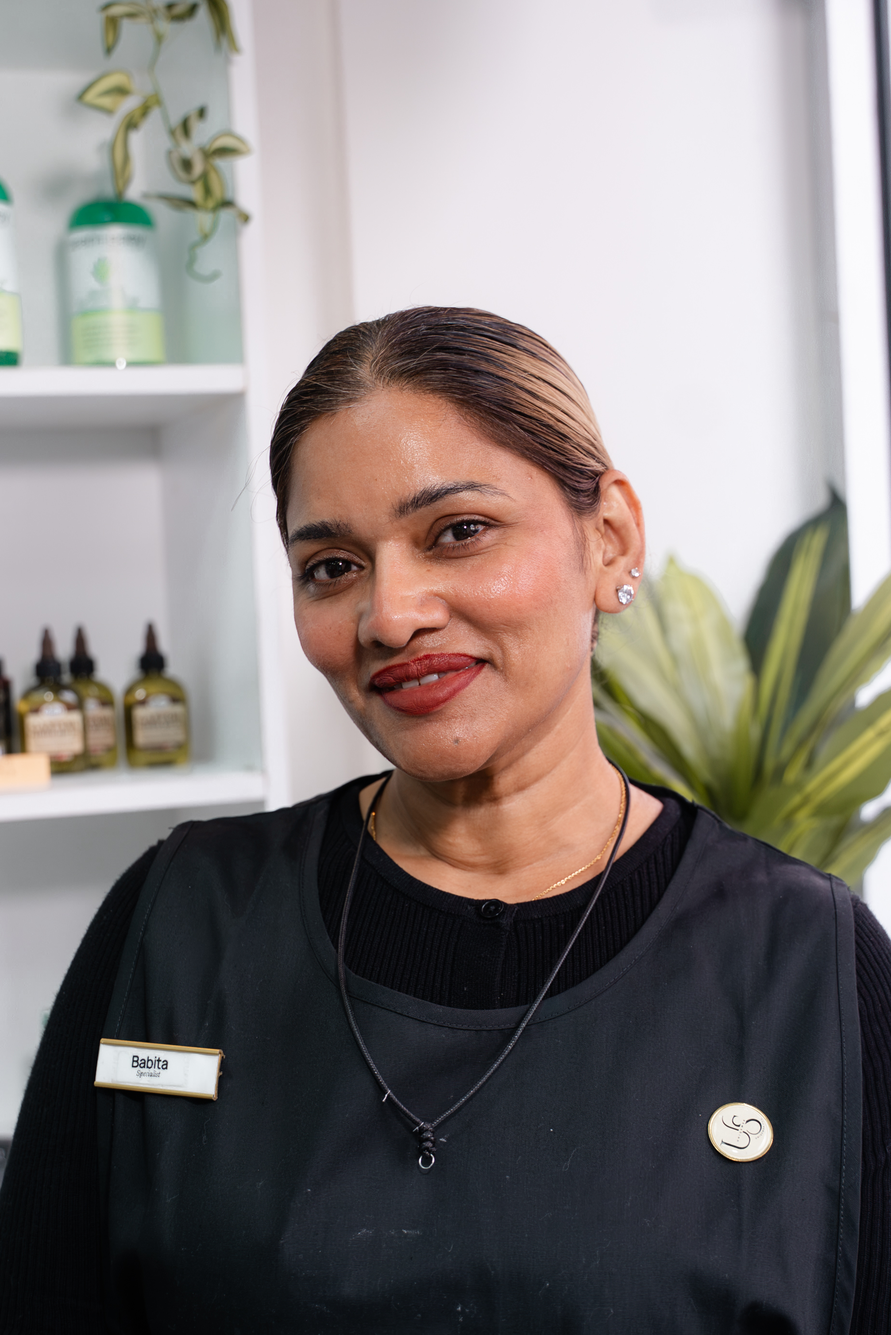
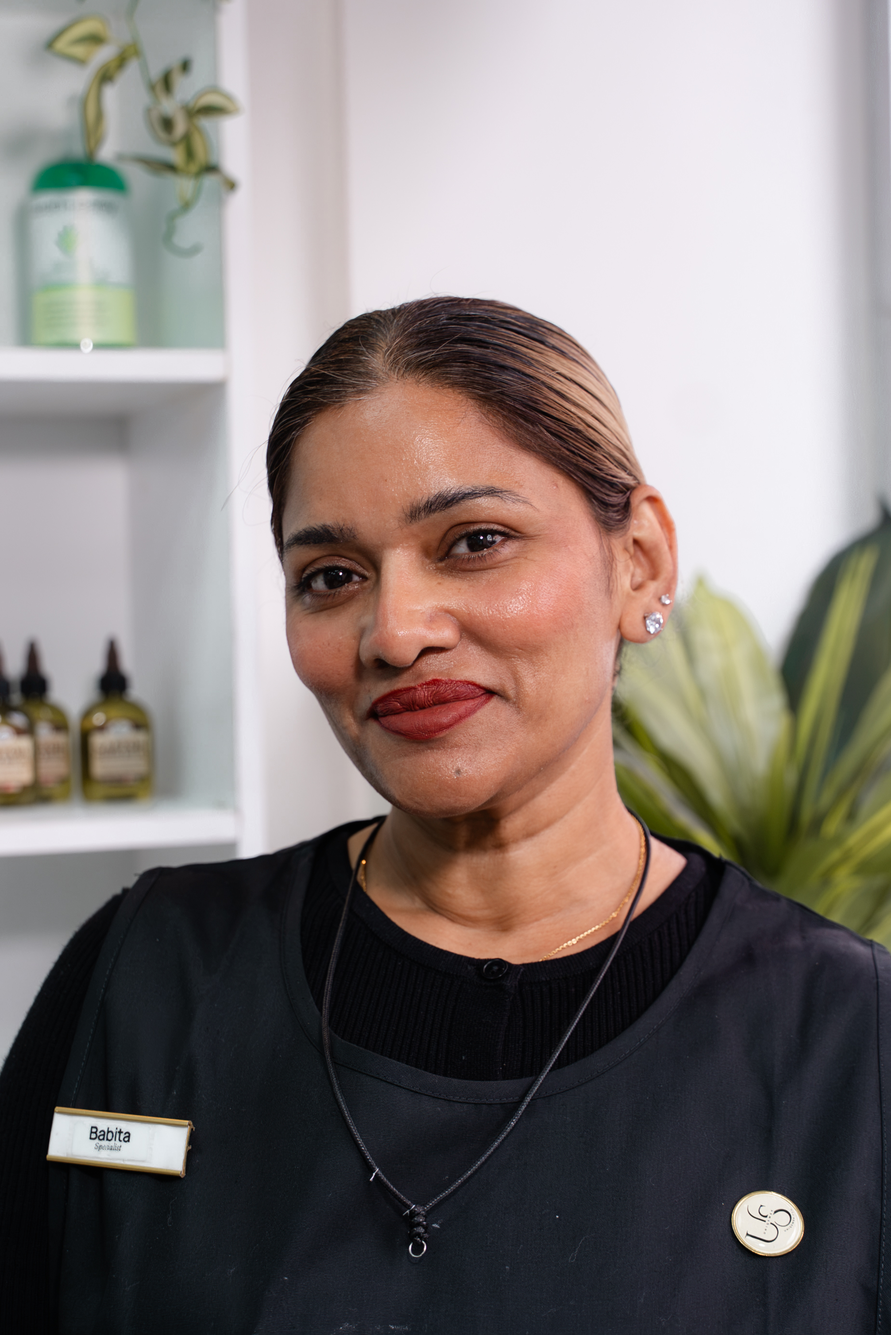
feat: add photoshoot photos — team headshots, gallery, interiors
- Gita headshot now live (was showing initials)
- Updated Babita, Mala, Swek headshots with new professional photos
- Gallery: replaced removed threading slots with 4 new female threading shots and 2 new facial photos (12 images total)
- Ridgewood page: added 3 interior photos
- Manhattan page: added 3rd interior photo
- Added product, gift card, team group, and storefront photos to assets

diff --git a/components/gallery-section.tsx b/components/gallery-section.tsx
@@ -5,14 +5,18 @@ import { useState } from "react"
 import { Dialog, DialogContent } from "@/components/ui/dialog"
 
 const galleryImages = [
-  { src: "/images/DSC04159.jpg", alt: "Eyebrow waxing and tinting service at UniqSwek", category: "Brows" },
+  { src: "/images/threading-1.jpg", alt: "Eyebrow threading close-up — precision thread technique at UniqSwek", category: "Brows" },
+  { src: "/images/threading-2.jpg", alt: "Eyebrow threading service — expert hands shaping brows", category: "Brows" },
+  { src: "/images/threading-3.jpg", alt: "Eyebrow threading in progress at UniqSwek Beauty Studios", category: "Brows" },
+  { src: "/images/brows-result.jpg", alt: "Perfectly shaped eyebrows — threading result at UniqSwek", category: "Brows" },
   { src: "/images/DSC04099.jpg", alt: "Lash extension application by licensed specialist", category: "Lashes" },
-  { src: "/images/facial-1.jpg", alt: "Facial treatment — clay mask application at UniqSwek", category: "Facials" },
   { src: "/images/DSC04132.jpg", alt: "Classic lash extensions — natural and wispy", category: "Lashes" },
-  { src: "/images/facial-2.jpg", alt: "Steam facial treatment at UniqSwek Beauty Studios", category: "Facials" },
-  { src: "/images/facial-3.jpg", alt: "LED light therapy facial at UniqSwek Beauty Studios", category: "Facials" },
   { src: "/images/DSC04142.jpg", alt: "Lash extensions result — beautiful full lashes", category: "Lashes" },
   { src: "/images/DSC04141.jpg", alt: "Lash extensions — before and after comparison", category: "Lashes" },
+  { src: "/images/facial-4.jpg", alt: "Professional facial treatment with steam — Babita at UniqSwek", category: "Facials" },
+  { src: "/images/facial-5.jpg", alt: "LED light therapy facial at UniqSwek Beauty Studios", category: "Facials" },
+  { src: "/images/facial-1.jpg", alt: "Facial treatment — clay mask application at UniqSwek", category: "Facials" },
+  { src: "/images/facial-2.jpg", alt: "Steam facial treatment at UniqSwek Beauty Studios", category: "Facials" },
 ]
 
 const CATEGORIES = ["All", "Brows", "Lashes", "Facials"]

diff --git a/app/ridgewood/page.tsx b/app/ridgewood/page.tsx
@@ -26,7 +26,7 @@ const ridgewoodTeam = [
   { name: "Babita Sharma",   displayName: "Babita", role: "Senior Licensed Technician",           initials: "BS", color: "bg-pink-100 text-pink-700",   ring: "ring-pink-200",   photo: "/images/team/babita.jpg" },
   { name: "Sammy",                                  role: "Store Manager & Lash Lift Specialist", initials: "SM", color: "bg-teal-100 text-teal-700",   ring: "ring-teal-200",   photo: "/images/team/sammy.jpg" },
   { name: "Mala",                                   role: "Licensed Technician & Wax Specialist", initials: "MA", color: "bg-indigo-100 text-indigo-700", ring: "ring-indigo-200", photo: "/images/team/mala.jpg" },
-  { name: "Gita",                                   role: "Licensed Technician",                  initials: "GI", color: "bg-emerald-100 text-emerald-700", ring: "ring-emerald-200", photo: null },
+  { name: "Gita",                                   role: "Licensed Technician",                  initials: "GI", color: "bg-emerald-100 text-emerald-700", ring: "ring-emerald-200", photo: "/images/team/gita.jpg" },
 ]
 
 const breadcrumbSchema = {
@@ -49,6 +49,11 @@ export default function RidgewoodPage() {
       teamMembers={ridgewoodTeam}
       heroTagline="Bringing UniqSwek's signature precision threading and lash artistry to Ridgewood, Queens."
       neighborhoodDesc="Our Ridgewood studio at 59-15 71st Avenue brings the same standard of expert beauty services to Queens. Founded by Swekchha Luitel (Swek) with the same vision that made our Manhattan studio a neighborhood favorite — precision, care, and a genuinely welcoming environment. Easy street parking and close to the M train."
+      interiorPhotos={[
+        "/images/interior-ridgewood-1.jpg",
+        "/images/interior-ridgewood-2.jpg",
+        "/images/interior-ridgewood-3.jpg",
+      ]}
     />
     </>
   )

diff --git a/app/manhattan/page.tsx b/app/manhattan/page.tsx
@@ -26,7 +26,7 @@ const uesTeam = [
   { name: "Babita Sharma",   displayName: "Babita", role: "Senior Licensed Technician",           initials: "BS", color: "bg-pink-100 text-pink-700",      ring: "ring-pink-200",    photo: "/images/team/babita.jpg" },
   { name: "Sammy",                                  role: "Store Manager & Lash Lift Specialist", initials: "SM", color: "bg-teal-100 text-teal-700",      ring: "ring-teal-200",    photo: "/images/team/sammy.jpg" },
   { name: "Mala",                                   role: "Licensed Technician & Wax Specialist", initials: "MA", color: "bg-indigo-100 text-indigo-700",  ring: "ring-indigo-200",  photo: "/images/team/mala.jpg" },
-  { name: "Gita",                                   role: "Licensed Technician",                  initials: "GI", color: "bg-emerald-100 text-emerald-700", ring: "ring-emerald-200", photo: null },
+  { name: "Gita",                                   role: "Licensed Technician",                  initials: "GI", color: "bg-emerald-100 text-emerald-700", ring: "ring-emerald-200", photo: "/images/team/gita.jpg" },
 ]
 
 const breadcrumbSchema = {
@@ -53,6 +53,7 @@ export default function ManhattanPage() {
       interiorPhotos={[
         "/images/interior-manhattan-1.jpg",
         "/images/interior-manhattan-2.jpg",
+        "/images/interior-manhattan-3.jpg",
       ]}
     />
     </>

diff --git a/components/team-section.tsx b/components/team-section.tsx
@@ -52,7 +52,7 @@ const team = [
     initials: "GI",
     color: "bg-emerald-100 text-emerald-700",
     ring: "ring-emerald-200",
-    photo: null,
+    photo: "/images/team/gita.jpg",
     bio: "Gita brings a warm, attentive energy to every service. Her careful, detail-oriented approach ensures clients always leave looking their best.",
     store: "Upper East Side",
   },
